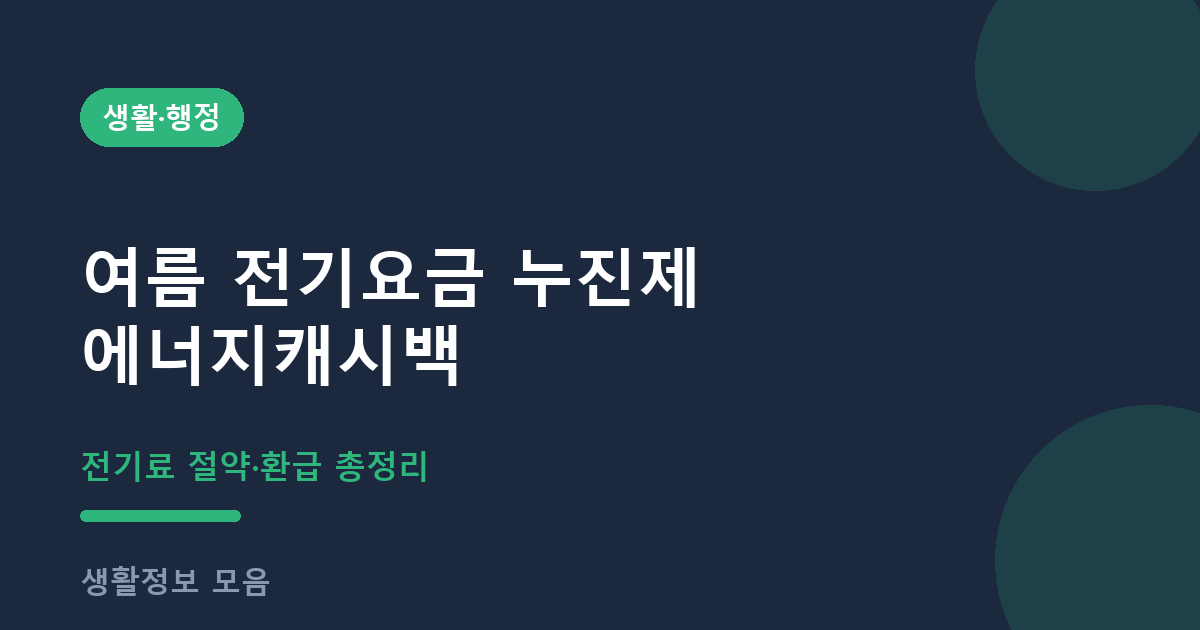
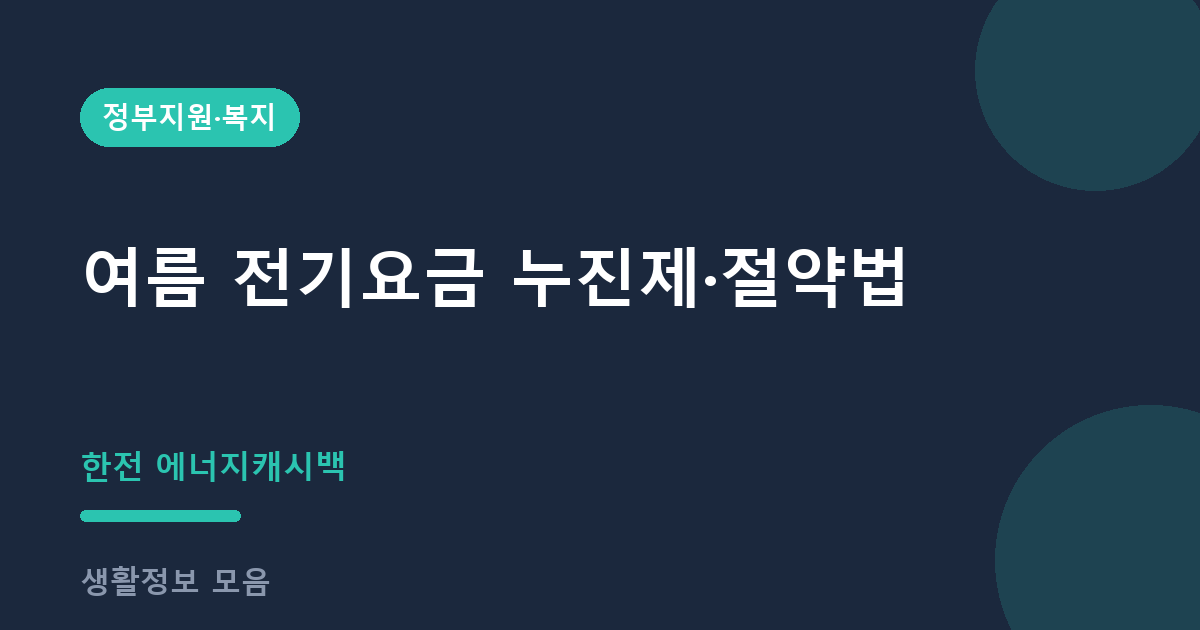
update console + thumbnails

diff --git a/categories.html b/categories.html
@@ -69,7 +69,7 @@ function fail(){document.getElementById("tree").innerHTML='<div class="load">목
 function render(db){
   var byCat={};
   db.posts.forEach(function(p){(byCat[p.sub]=byCat[p.sub]||[]).push(p);});
-  document.getElementById("meta").textContent="총 "+db.count+"편 · 대분류 "+db.taxonomy.length+"개";
+  document.getElementById("meta").textContent="총 "+db.posts.length+"편 · 대분류 "+db.taxonomy.length+"개";
   var html=db.taxonomy.map(function(c){
     var ccnt=db.posts.filter(function(p){return p.cat===c.code;}).length;
     var body=c.subs.map(function(s){